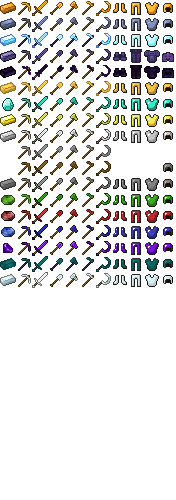
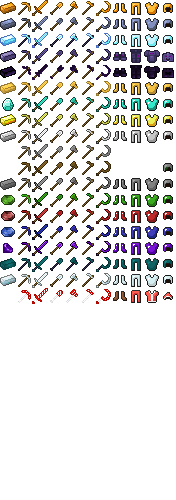
Christmas! Obviously not late!

diff --git a/src/main/java/com/goldenapple/coppertools/config/ConfigHandler.java b/src/main/java/com/goldenapple/coppertools/config/ConfigHandler.java
@@ -2,6 +2,7 @@ package com.goldenapple.coppertools.config;
 
 import com.goldenapple.coppertools.reference.Reference;
 import cpw.mods.fml.client.event.ConfigChangedEvent;
+import cpw.mods.fml.common.Mod;
 import cpw.mods.fml.common.eventhandler.SubscribeEvent;
 import net.minecraft.item.Item;
 import net.minecraft.item.ItemArmor;
@@ -20,6 +21,7 @@ public class ConfigHandler {
     private static Configuration configLead;
     private static Configuration configEnderium;
     private static Configuration configSilver;
+    private static Configuration configHoliday;
 
     private static final String CATEGORY_SICKLES = "sickles";
     private static final String CATEGORY_SETS = "sets";
@@ -31,12 +33,15 @@ public class ConfigHandler {
     public static boolean loadEnderium;
     public static boolean loadSilver;
 
+    public static boolean loadHoliday;
     public static boolean loadSaber;
     public static boolean loadObsidianRod;
     public static boolean loadGemArmor;
 
+    public static boolean holidaySpiritLivesForever;
     public static boolean platinumRequiresObsidian;
     public static boolean dumpAllOres;
+    public static int chanceOfGoodChristmas;
 
     public static boolean loadSickles;
     public static boolean loadVanillaSickles;
@@ -46,6 +51,7 @@ public class ConfigHandler {
 
     public static void init(String path){
         configPath = path;
+
         if (configGeneral == null){
             configGeneral = new Configuration(new File(path + "general.cfg"));
         }
@@ -104,9 +110,22 @@ public class ConfigHandler {
         if(configSilver.hasChanged()){
             configSilver.save();
         }
+
+        if(configHoliday == null){
+            configHoliday = new Configuration(new File(path + "holiday.cfg"));
+        }
+        ModToolMaterial.HOLIDAY = loadProperty(configHoliday, "holiday", ModToolMaterial.Default.HOLIDAY);
+        ModArmorMaterial.HOLIDAY = loadProperty(configHoliday, "holiday", ModArmorMaterial.Default.HOLIDAY);
+        if(configHoliday.hasChanged()){
+            configHoliday.save();
+        }
     }
 
     private static void loadGeneral(){
+        if(configGeneral == null){
+            configGeneral = new Configuration(new File(configPath + "general.cfg"));
+        }
+
         loadCopper = configGeneral.getBoolean("loadCopper", CATEGORY_SETS, true, "Set this to false to disable copper tools & armor");
         loadPlatinum = configGeneral.getBoolean("loadPlatinum", CATEGORY_SETS, true, "Set this to false to disable platinum tools & armor");
         loadCompressed = configGeneral.getBoolean("loadCompressed", CATEGORY_SETS, true, "Set this to false to disable tools & armor out of compressed iron");
@@ -115,8 +134,11 @@ public class ConfigHandler {
         loadEnderium = configGeneral.getBoolean("loadEnderium", CATEGORY_SETS, true, "Set this to false to disable enderium tools & armor");
         loadGemArmor = configGeneral.getBoolean("loadGemArmor", CATEGORY_SETS, true, "Set this to false to disable gem armor");
 
+        chanceOfGoodChristmas = configGeneral.getInt("chanceOfGoodChristmas", Configuration.CATEGORY_GENERAL, 50, 1, 9000, "1 in X chance that a hostile mob will drop a piece of Christmas equipment");
+        loadHoliday = configGeneral.getBoolean("loadHoliday", Configuration.CATEGORY_GENERAL, true, "Set this to false if you hate Christmas, you bastard! >:(");
         loadSaber = configGeneral.getBoolean("loadSaber", Configuration.CATEGORY_GENERAL, true, "Set this to false to disable the Wooden Saber");
         loadObsidianRod = configGeneral.getBoolean("loadObsidianRod", Configuration.CATEGORY_GENERAL, true, "Set this to false to disable the Obsidian Rod");
+        holidaySpiritLivesForever = configGeneral.getBoolean("holidaySpiritLivesForever", Configuration.CATEGORY_GENERAL, false, "Set this to true if you love Christmas so much that you want to celebrate it forever!");
         platinumRequiresObsidian = configGeneral.getBoolean("platinumRequiresObsidian", Configuration.CATEGORY_GENERAL, true, "Set this to false to allow crafting platinum tools with regular sticks");
         dumpAllOres = configGeneral.getBoolean("dumpAllOres", Configuration.CATEGORY_GENERAL, false, "Set this to true to log every single OreDictionary ore");
 
@@ -153,8 +175,7 @@ public class ConfigHandler {
     }
 
     @SubscribeEvent
-    public void onConfigurationChangedEvent(ConfigChangedEvent.OnConfigChangedEvent event)
-    {
+    public void onConfigurationChangedEvent(ConfigChangedEvent.OnConfigChangedEvent event){
         if (event.modID.equalsIgnoreCase(Reference.MOD_ID)){
             init(configPath);
         }

diff --git a/src/main/java/com/goldenapple/coppertools/handler/CopperToolsEventHandler.java b/src/main/java/com/goldenapple/coppertools/handler/CopperToolsEventHandler.java
@@ -1,20 +1,66 @@
 package com.goldenapple.coppertools.handler;
 
+import com.goldenapple.coppertools.config.ConfigHandler;
+import com.goldenapple.coppertools.reference.Reference;
+import com.goldenapple.coppertools.util.LogHelper;
 import cpw.mods.fml.common.eventhandler.SubscribeEvent;
+import cpw.mods.fml.common.registry.GameRegistry;
 import net.minecraft.client.Minecraft;
+import net.minecraft.entity.item.EntityItem;
 import net.minecraft.entity.monster.EntityMob;
+import net.minecraft.entity.monster.IMob;
+import net.minecraft.entity.player.EntityPlayer;
+import net.minecraft.item.ItemStack;
 import net.minecraftforge.event.entity.living.LivingDropsEvent;
 
-import java.util.Random;
+import java.util.*;
 
 public class CopperToolsEventHandler {
     @SubscribeEvent
-    public void onEntityDrops(LivingDropsEvent event){
-        Random rand = new Random(Minecraft.getMinecraft().theWorld.getSeed()); //why not?
-        if(event.source.damageType.equals("player") && event.entityLiving instanceof EntityMob){
-            if(rand.nextInt(100)){
+    public void onEntityDrops(LivingDropsEvent event) {
+        if(isHoliday()){
+            String item = "christmas_pickaxe";
+            Random rand = new Random();
+            int chance = ConfigHandler.chanceOfGoodChristmas * 10;
 
+            if(!event.source.damageType.equals("player")) return; else LogHelper.info("player!");
+            if(event.entityLiving instanceof EntityPlayer) chance = 10; //always drops from players
+            if(event.entityLiving instanceof IMob || event.entityLiving instanceof EntityPlayer){
+                int got = rand.nextInt(chance);
+                LogHelper.info("chance: " + got + " out of " + chance);
+                if (got < 10) {
+                    switch (got) {
+                        case 0: item = "christmas_pickaxe";
+                        case 1: item = "christmas_sword";
+                        case 2: item = "christmas_shovel";
+                        case 3: item = "christmas_axe";
+                        case 4: item = "christmas_hoe";
+                        case 5: item = "christmas_sickle";
+                        case 6: item = "christmas_helmet";
+                        case 7: item = "christmas_chestplate";
+                        case 8: item = "christmas_leggings";
+                        case 9: item = "christmas_boots";
+                    }
+                    addDrop(event, new ItemStack(GameRegistry.findItem(Reference.MOD_ID, item)));
+                }
+            }else{
+                LogHelper.info("illegal entity! stop right there you criminal!");
             }
         }
+    }
+
+    /*
+        @author SpitefulFox
+    */
+    private static void addDrop(LivingDropsEvent event, ItemStack drop) {
+        EntityItem entityitem = new EntityItem(event.entityLiving.worldObj, event.entityLiving.posX, event.entityLiving.posY, event.entityLiving.posZ, drop);
+        entityitem.delayBeforeCanPickup = 10;
+        event.drops.add(entityitem);
+    }
+
+    //Similar to vanilla chest rendering code
+    public static boolean isHoliday(){
+        Calendar calendar = Calendar.getInstance();
+        return calendar.get(Calendar.MONTH) == Calendar.DECEMBER && calendar.get(Calendar.DAY_OF_MONTH) >= 24 && calendar.get(Calendar.DAY_OF_MONTH) <= 31;
     }
 }

diff --git a/src/main/java/com/goldenapple/coppertools/init/ModItems.java b/src/main/java/com/goldenapple/coppertools/init/ModItems.java
@@ -1,6 +1,7 @@
 package com.goldenapple.coppertools.init;
 
 import com.goldenapple.coppertools.CopperToolsMod;
+import com.goldenapple.coppertools.handler.CopperToolsEventHandler;
 import com.goldenapple.coppertools.reference.Names;
 import com.goldenapple.coppertools.config.ConfigHandler;
 import com.goldenapple.coppertools.config.ModArmorMaterial;
@@ -8,6 +9,7 @@ import com.goldenapple.coppertools.config.ModToolMaterial;
 import com.goldenapple.coppertools.item.*;
 import com.goldenapple.coppertools.item.special.GildedIronSickle;
 import cpw.mods.fml.common.registry.GameRegistry;
+import net.minecraft.init.Blocks;
 import net.minecraft.item.Item;
 import net.minecraft.item.ItemArmor;
 import net.minecraft.item.ItemStack;
@@ -69,6 +71,9 @@ public class ModItems {
             registerArmorOnly(ModArmorMaterial.GEM, "peridot", "gemPeridot");
             registerArmorOnly(ModArmorMaterial.GEM, "sapphire", "gemSapphire");
             registerArmorOnly(ModArmorMaterial.GEM, "amethyst", "gemAmethyst");
+        }
+        if((ConfigHandler.loadHoliday && CopperToolsEventHandler.isHoliday()) || ConfigHandler.holidaySpiritLivesForever){
+            registerToolSet(ModToolMaterial.HOLIDAY, ModArmorMaterial.HOLIDAY, "christmas", new ItemStack(Blocks.ice), false);
         }
     }
 

diff --git a/src/main/java/com/goldenapple/coppertools/config/ModArmorMaterial.java b/src/main/java/com/goldenapple/coppertools/config/ModArmorMaterial.java
@@ -11,14 +11,16 @@ public class ModArmorMaterial {
     public static ItemArmor.ArmorMaterial GEM = EnumHelper.addArmorMaterial("GEM", 27, new int[]{2, 6, 5, 2}, 17);
     public static ItemArmor.ArmorMaterial ENDERIUM;
     public static ItemArmor.ArmorMaterial SILVER;
+    public static ItemArmor.ArmorMaterial HOLIDAY;
 
     static enum Default { //Durability, Protection(Helm, Chest, Legs, Boots), Enchantibility
         COPPER(10, new int[]{2, 5, 4, 2}, 17),
         PLATINUM(12, new int[]{2, 6, 5, 2}, 25),
         LEAD(10, new int[]{3, 7, 6, 3}, 9),
         COMPRESSED(30, new int[]{2, 6, 5, 2}, 9),
-        ENDERIUM(12, new int[]{2, 6, 5, 2}, 25),
-        SILVER(15, new int[]{2, 7, 5, 2}, 17);
+        ENDERIUM(40, new int[]{2, 6, 5, 2}, 25),
+        SILVER(15, new int[]{2, 7, 5, 2}, 17),
+        HOLIDAY(7, new int[]{2, 6, 5, 2}, 12);
 
         private int durability;
         private int[] protection;

diff --git a/src/main/java/com/goldenapple/coppertools/config/ModToolMaterial.java b/src/main/java/com/goldenapple/coppertools/config/ModToolMaterial.java
@@ -11,6 +11,7 @@ public class ModToolMaterial {
     public static Item.ToolMaterial BRASS = EnumHelper.addToolMaterial("BRASS_S", 2, 191, 7.0F, 2.5F, 14);
     public static Item.ToolMaterial ENDERIUM;
     public static Item.ToolMaterial SILVER;
+    public static Item.ToolMaterial HOLIDAY;
 
     static enum Default { //Mining level, durability, speed, damage, enchantibility
         COPPER(1, 131, 7, 1, 18),
@@ -18,7 +19,8 @@ public class ModToolMaterial {
         LEAD(0, 131, 4, 0, 14),
         COMPRESSED(2, 500, 6, 2, 14),
         ENDERIUM(5, 2000, 10, 4, 22),
-        SILVER(2, 250, 8, 2.5F, 18);
+        SILVER(2, 250, 8, 2.5F, 18),
+        HOLIDAY(0, 32, 12.0F, 0.0F, 22);
 
         private int harvestLevel;
         private int durability;

diff --git a/src/main/java/com/goldenapple/coppertools/CopperToolsMod.java b/src/main/java/com/goldenapple/coppertools/CopperToolsMod.java
@@ -41,6 +41,8 @@ public class CopperToolsMod {
         isTwilightLoaded = Loader.isModLoaded("TwilightForest");
         isPneumaticLoaded = Loader.isModLoaded("PneumaticCraft");
 
+        if(CopperToolsEventHandler.isHoliday()) LogHelper.info("It's the holiday season! Now go kill some zombies to get Santa's Armor! In the name of Christmas!");
+
         ModItems.init();
 
         LogHelper.info("Pre-init complete!");
